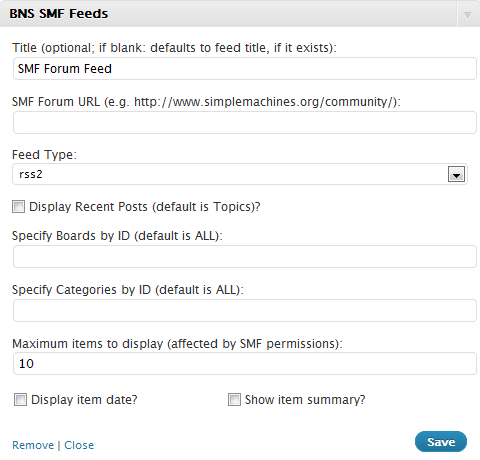
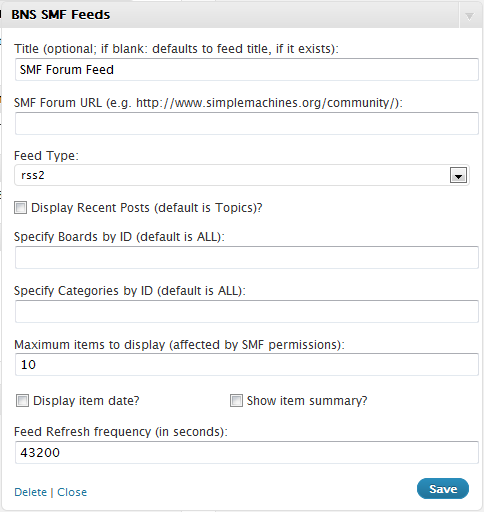
git-svn-id: https://plugins.svn.wordpress.org/bns-smf-feeds/trunk@200344 b8457f37-d9ea-0310-8a92-e5e31aec5664

diff --git a/bns-smf-feeds.php b/bns-smf-feeds.php
@@ -3,7 +3,7 @@
 Plugin Name: BNS SMF Feeds
 Plugin URI: http://buynowshop.com/plugins/bns-smf-feeds/
 Description: Plugin with multi-widget functionality that builds an SMF Forum RSS feed url by user option choices; and, displays a SMF forum feed.
-Version: 1.1.1
+Version: 1.2
 Author: Edward Caissie
 Author URI: http://edwardcaissie.com/
 */
@@ -24,7 +24,34 @@ function load_my_bns_smf_feeds_widget() {
 
 /* ---- */
 /* ---- Why re-invent the wheel? ---- */
-/* ---- taken from ../wp-includes/deafult-widgets.php ---- */
+
+/* ---- taken from ../wp-includes/feed.php ---- */
+/**
+ * Build SimplePie object based on RSS or Atom feed from URL.
+ *
+ * @since 2.8
+ *
+ * @param string $url URL to retrieve feed
+ * @return WP_Error|SimplePie WP_Error object on failure or SimplePie object on success
+ */
+function bns_fetch_feed($url) {
+	require_once (ABSPATH . WPINC . '/class-feed.php');
+
+	$feed = new SimplePie();
+	$feed->set_feed_url($url);
+	$feed->set_cache_class('WP_Feed_Cache');
+	$feed->set_file_class('WP_SimplePie_File');
+	$feed->set_cache_duration(apply_filters('wp_feed_cache_transient_lifetime', $feed_refresh));
+	$feed->init();
+	$feed->handle_content_type();
+
+	if ( $feed->error() )
+		return new WP_Error('simplepie-error', $feed->error());
+
+	return $feed;
+}
+
+/* ---- taken from ../wp-includes/default-widgets.php ---- */
 /**
  * Display the RSS entries in a list.
  *
@@ -36,10 +63,10 @@ function load_my_bns_smf_feeds_widget() {
 /* ---- function wp_widget_rss_output( $rss, $args = array() ) { ---- */
 function bns_wp_widget_rss_output( $rss, $args = array() ) {
 	if ( is_string( $rss ) ) {
-		$rss = fetch_feed($rss);
+		$rss = bns_fetch_feed($rss);
 	} elseif ( is_array($rss) && isset($rss['url']) ) {
 		$args = $rss;
-		$rss = fetch_feed($rss['url']);
+		$rss = bns_fetch_feed($rss['url']);
 	} elseif ( !is_object($rss) ) {
 		return;
 	}
@@ -158,6 +185,7 @@ class BNS_SMF_Feeds_Widget extends WP_Widget {
   		$show_author    = $instance['show_author'];
   		$show_date      = $instance['show_date'];
   		$show_summary   = $instance['show_summary'];
+      $feed_refresh   = $instance['feed_refresh'];
   		
   		$smf_feed_url   = $instance['smf_feed_url'];
   		
@@ -185,7 +213,7 @@ class BNS_SMF_Feeds_Widget extends WP_Widget {
   		if ( empty($smf_feed_url) )
   			return;
   
-  		$rss = fetch_feed($smf_feed_url);
+  		$rss = bns_fetch_feed($smf_feed_url);
   		$title = $instance['title'];
   		$desc = '';
   		$link = '';
@@ -243,6 +271,7 @@ class BNS_SMF_Feeds_Widget extends WP_Widget {
   		$instance['show_author']    = $new_instance['show_author'];
       $instance['show_date']      = $new_instance['show_date'];
   		$instance['show_summary']   = $new_instance['show_summary'];
+  		$instance['feed_refresh']   = $new_instance['feed_refresh'];
 
   		$instance['smf_feed_url']   = $new_instance['smf_feed_url'];
   		
@@ -261,7 +290,8 @@ class BNS_SMF_Feeds_Widget extends WP_Widget {
 				'limit_count'     => '10',
 				'show_author'     => false,   /* Not currently supported by SMF feeds; future version? */
 				'show_date'       => false,
-				'show_summary'    => false
+				'show_summary'    => false,
+				'feed_refresh'    => '43200'  /* Default value as noted in feed.php core file */
         );
       $instance['number'] = $this->number;
     	$instance = wp_parse_args( (array) $instance, $defaults );
@@ -331,6 +361,11 @@ class BNS_SMF_Feeds_Widget extends WP_Widget {
         </td>
       </tr>
     </table>
+    
+    <p>
+			<label for="<?php echo $this->get_field_id( 'feed_refresh' ); ?>"><?php _e('Feed Refresh frequency (in seconds):'); ?></label>
+			<input id="<?php echo $this->get_field_id( 'feed_refresh' ); ?>" name="<?php echo $this->get_field_name( 'feed_refresh' ); ?>" value="<?php echo $instance['feed_refresh']; ?>" style="width:100%;" />
+		</p>
 
 		<?php
 	}
